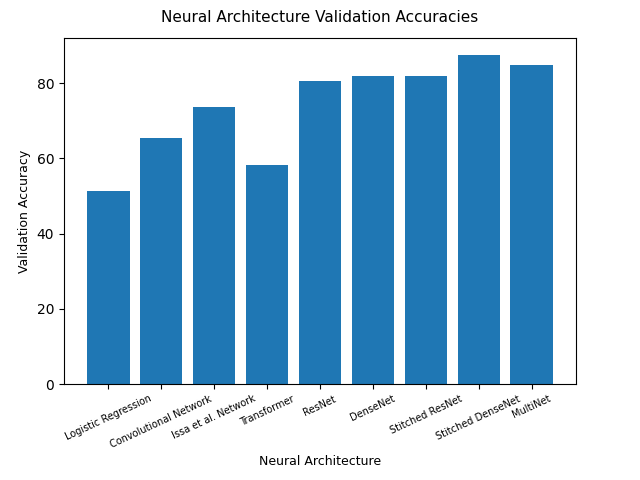
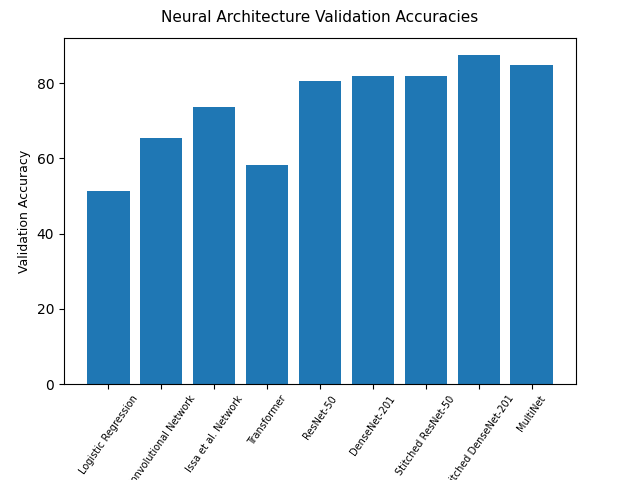
restructure plot directory

diff --git a/src/plots/accuracy_bar_plots.py b/src/plots/accuracy_bar_plots.py
@@ -5,7 +5,7 @@ architectures = ['Logistic Regression', 'Convolutional Network', 'Issa et al. Ne
 validation_accuracies = [51.38, 65.28, 73.61, 58.33, 80.56, 81.94, 81.94, 87.50, 84.72]
 test_accuracies = [22.22, 13.19, 75.69, 15.28, 76.39, 73.61, 74.31, 79.17, 77.78]
 
-'''validation_fig = plt.figure()
+validation_fig = plt.figure()
 ax = validation_fig.add_axes([0.1,0.2,0.8,0.72])
 ax.bar(architectures, validation_accuracies)
 validation_fig.suptitle('Neural Architecture Validation Accuracies', fontsize=11)
@@ -25,7 +25,7 @@ plt.xlabel('Neural Architecture', fontsize=9)
 plt.ylabel('Test Accuracy', fontsize=9)
 plt.xticks(rotation=55, fontsize=7)
 test_fig.savefig('test_bar_plot.png')
-plt.close(test_fig)'''
+plt.close(test_fig)
 
 
 
